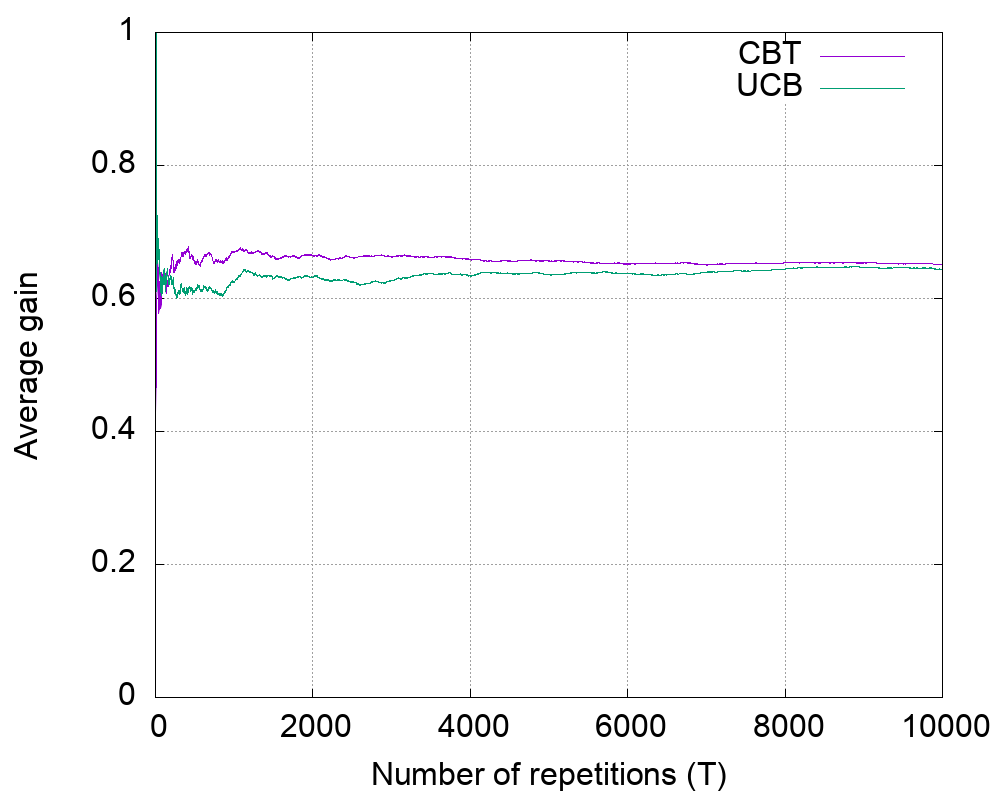
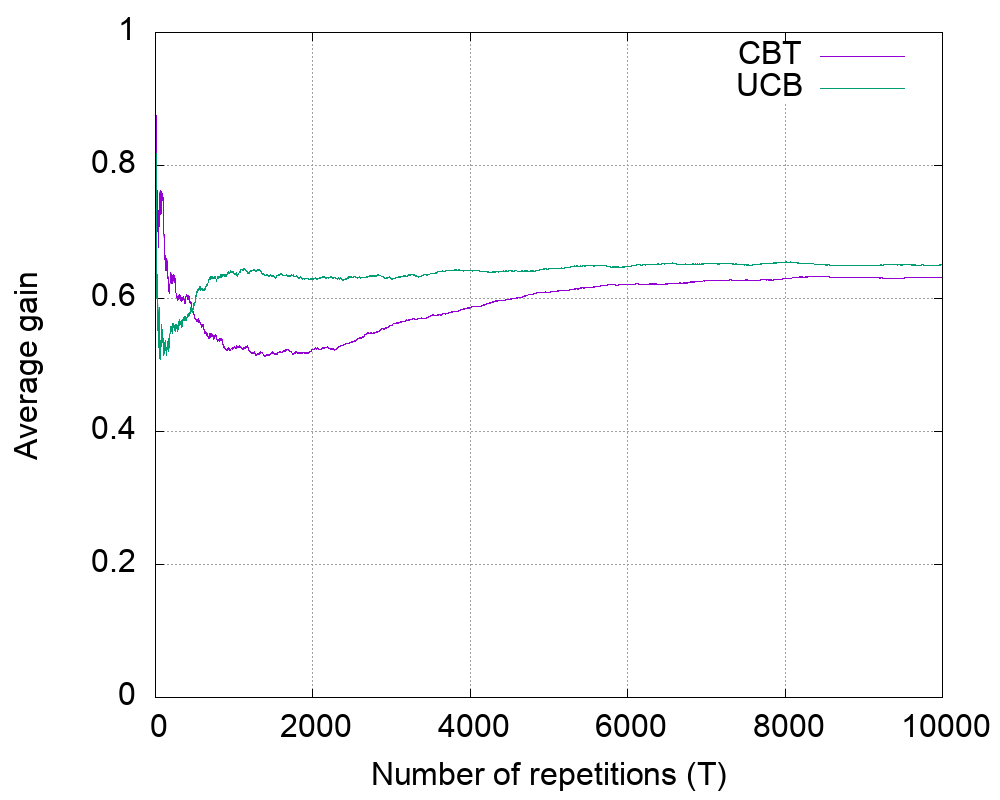
Update settings to use the learning and exploration parameters recommended by theory.

diff --git a/bin/settings.py b/bin/settings.py
@@ -3,16 +3,16 @@ import numpy as np
 
 parameters = {
     "10": {
-        "exploration": 100.0,
-        "learning_rate": 1000.0,
+        "exploration": 10.0,
+        "learning_rate": 1175.0,
     },
     "20": {
-        "exploration": 100.0,
-        "learning_rate": 1000.0,
+        "exploration": 20.0,
+        "learning_rate": 1662.0,
     },
     "30": {
-        "exploration": 100.0,
-        "learning_rate": 1000.0,
+        "exploration": 30.0,
+        "learning_rate": 2035.0,
     },
     "ttt_2_level": {
         "exploration": 100.0,
